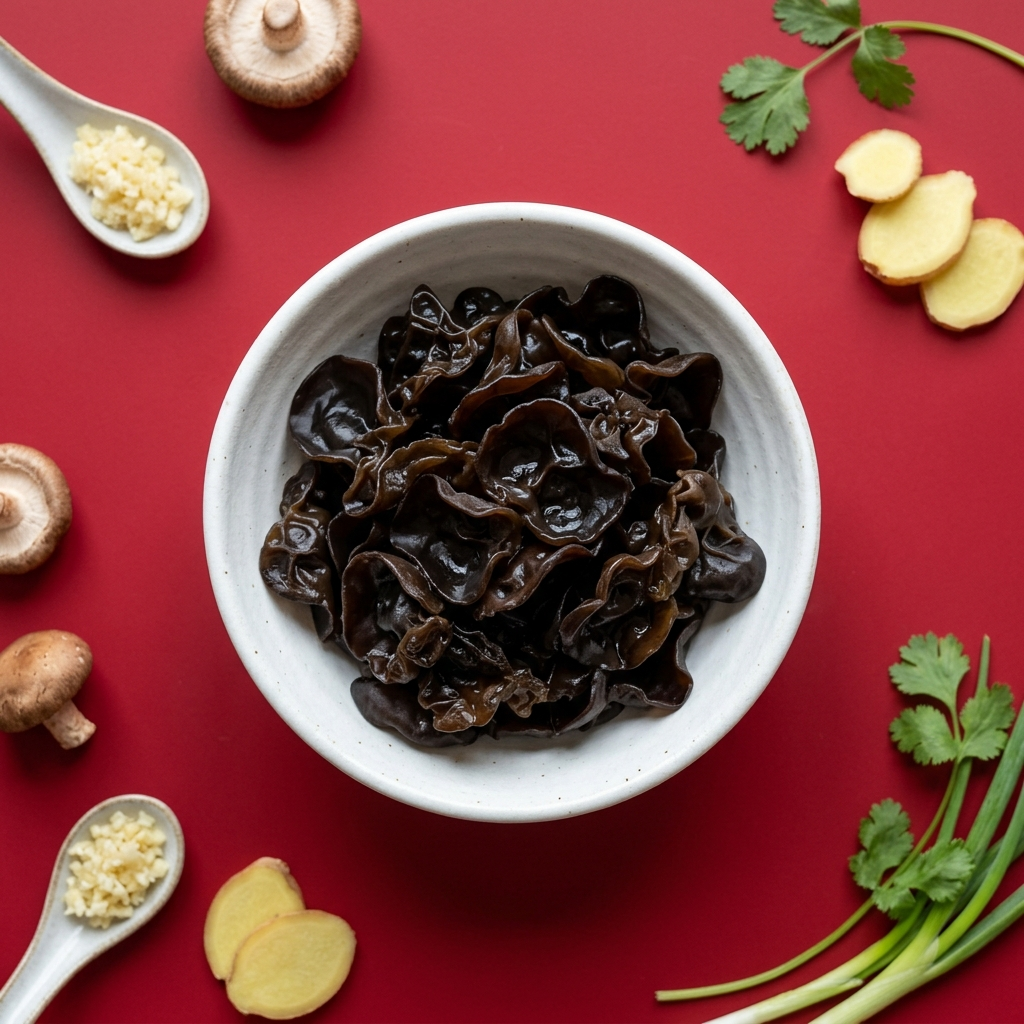
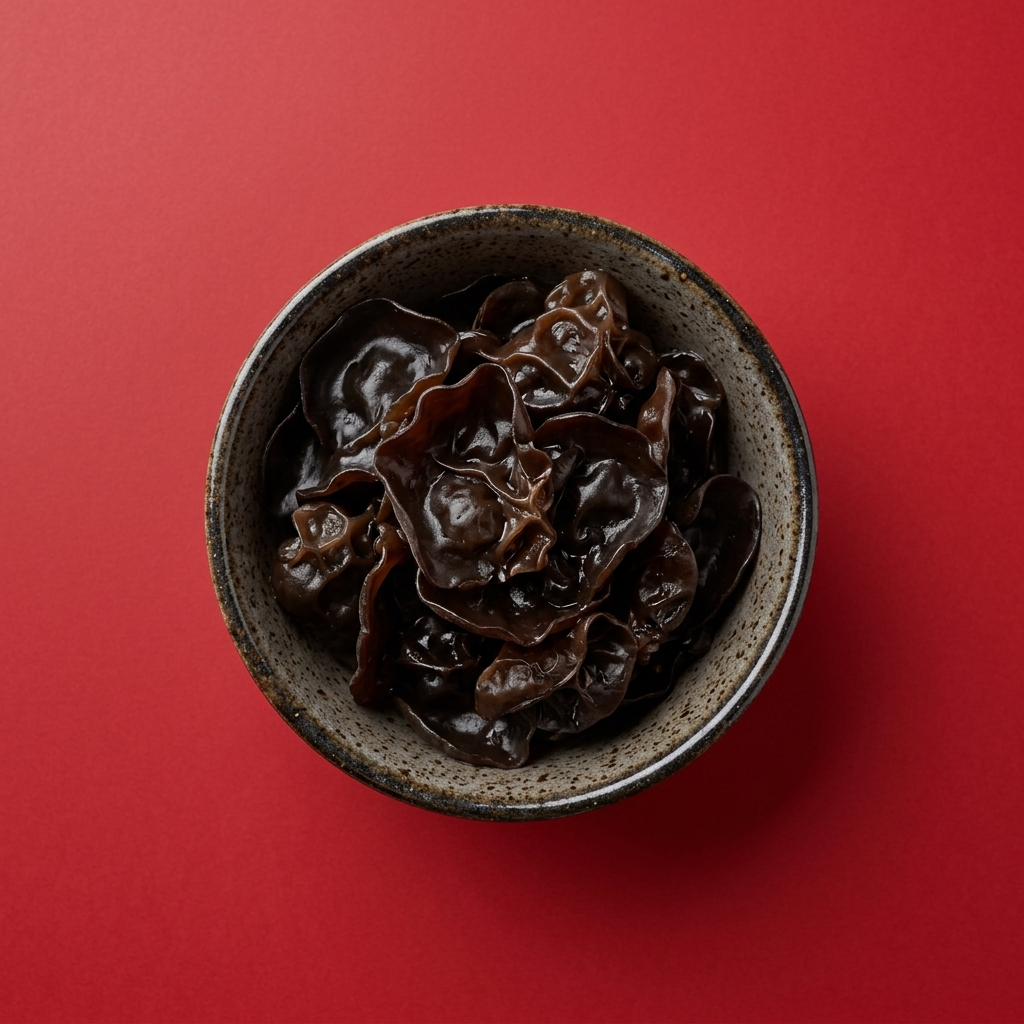
feat(assets): clean up redundant files, recreate isolated images, and add new modifier images

diff --git a/frontend/src/features/menu/lib/food-image.ts b/frontend/src/features/menu/lib/food-image.ts
@@ -29,17 +29,23 @@ const KNOWN_FOOD_IMAGES: Record<string, string> = {
   "crab mushroom": "/food-images/needle-mushroom.jpg",
   "broccoli": "/food-images/broccoli.jpg",
   "crab stick": "/food-images/crab-stick.jpg",
-  "crab steak": "/food-images/crab-steak.jpg",
+  "crab steak": "/food-images/crab-stick.jpg",
   "bacon (4pcs)": "/food-images/bacon.jpg",
   "bacon": "/food-images/bacon.jpg",
   "pork flower sausage": "/food-images/flower-sausage.jpg",
-  "kiss hot dog": "/food-images/kiss-hot-dog.jpg",
+  "kiss hot dog": "/food-images/flower-sausage.jpg",
   "handmade noodles": "/food-images/handmade-noodles.jpg",
   "soft tofu": "/food-images/soft-tofu.jpg",
   "black fungus": "/food-images/black-fungus.jpg",
-  "white fungus": "/food-images/white-fungus.jpg",
+  "white fungus": "/food-images/black-fungus.jpg",
   "fish cake": "/food-images/fish-cake.jpg",
   "white stomach": "/food-images/white-stomach.jpg",
+  "duck blood": "/food-images/duck-blood.jpg",
+  "bamboo shoot": "/food-images/bamboo-shoot.jpg",
+  "black chicken": "/food-images/black-chicken.jpg",
+  "potato noodles": "/food-images/potato-noodles.jpg",
+  "dried tofu strips": "/food-images/dried-tofu-strips.jpg",
+  "mee chiet noodles": "/food-images/mee-chiet-noodles.jpg",
 }
 
 /**
